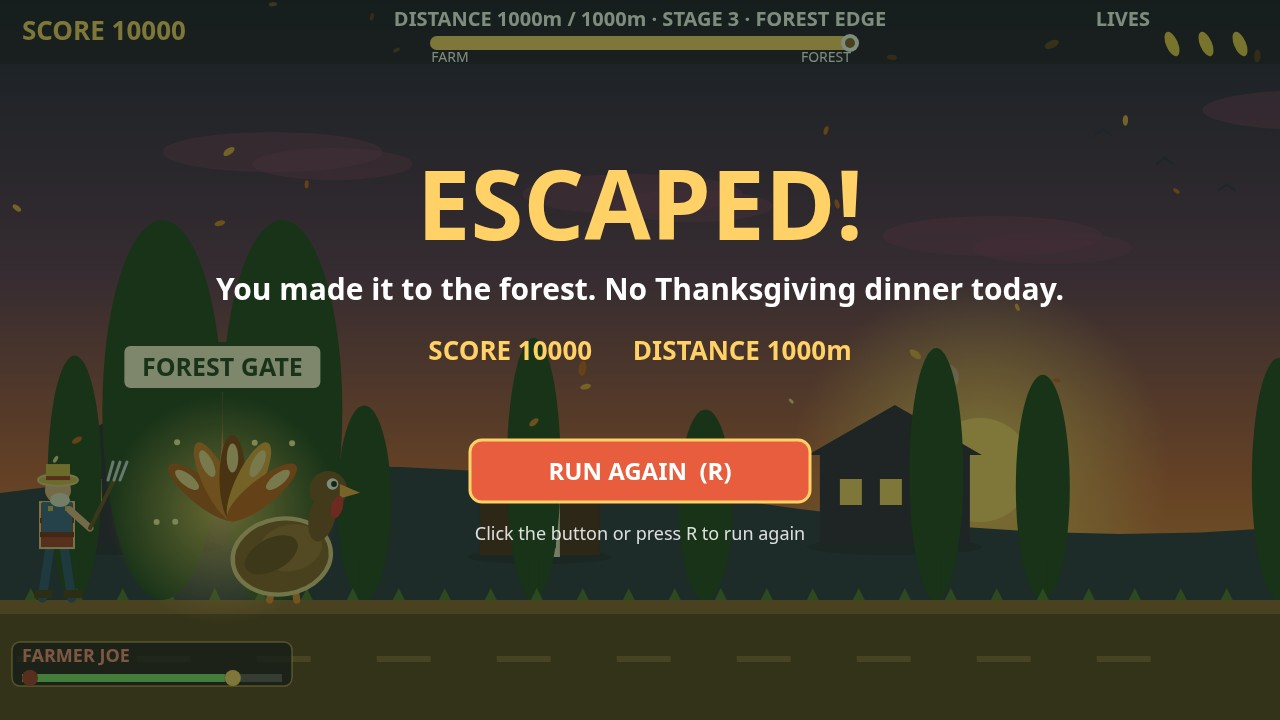
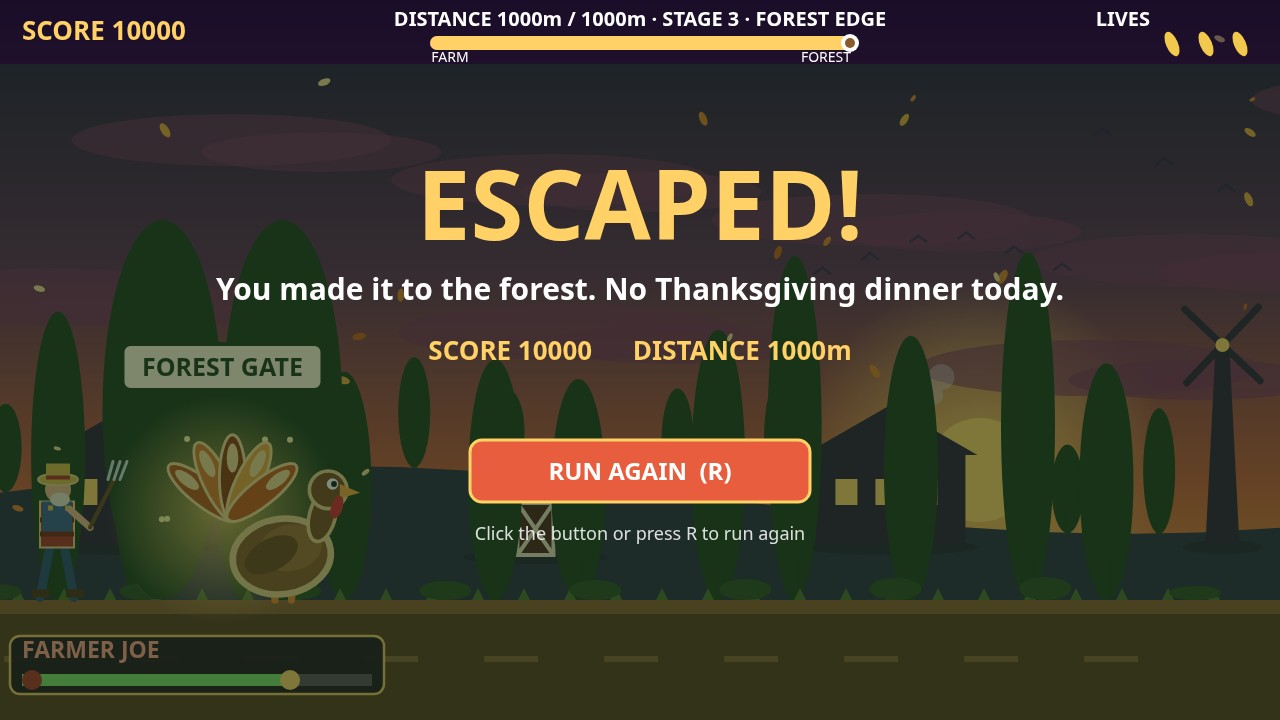
v20: fix all remaining audit issues in one version
Audit round 2 + duel v19 (19/20, 7/8 = v18): mock judge kept
penalising (1) empty sky, (2) small hero, (3) title, (4) HUD.
This version attacks them directly — code changes, not retakes:

- B2 empty sky: denser mid-ground — 14 taller trees (110-190px),
  far treeline on the hill crest, farm windmill (tower + slow blades),
  5+3 bigger lower clouds, lower bird flock, ground bushes.
  Sky-only y64-400 measured: shot 1 78.0% -> 53.0%, shot 3
  77.9% -> 59.4%. Ground line + gameplay geometry UNCHANGED.
- K1 Farmer Joe meter: box 260 -> 350px, label 18 -> 23px,
  brighter gold border, thicker track/dots — reads at 320px.
- K2 end-screen HUD: overlay dim now starts below the 64px top bar,
  so DISTANCE 1000m / STAGE 3 · FOREST EDGE stays readable; gold
  SCORE/DISTANCE line still dominates.
- K3 title footer: 16 -> bold 20px, taller pill + gold rim.
- Hero (scale stays 1.45x per Ban): body rim 3 -> 4.5, light rims
  on tail feathers + head/neck, duck rim 3 -> 4.
- Title untouched (110px, v16). Shot 3 forest+oven+feathers kept
  as the moment; all 4 shots re-shot with the new code.
- Duck: NOT staged — v17 proved the duck pose illegible at
  thumbnail, and any duck moment would displace the kitchen-yard
  jump (cover) or the forest jump (stage-3 proof); duck stays
  documented in HOW TO PLAY text + source outline.

Verified: perfect run 3/3 ESCAPED 0 hits lives 3/3 (seeds 99/7/42);
preview-gate full + 320px + 2x2 judge sheet; determinism two
[…]

diff --git a/game/src/world.js b/game/src/world.js
@@ -51,11 +51,18 @@ function createWorld(rng) {
       color: rng.pick(['#e8a33d', '#d97b29', '#c65a1a', '#f2d492']),
     });
   }
+  // v20: taller, denser near trees (tops reach y ~410 instead of ~460)
+  // plus a far treeline rooted on the far-hill crest — both fill bands
+  // that used to read as empty sky. Purely visual: no gameplay geometry.
   const trees = [];
-  for (let i = 0; i < 9; i++) {
-    trees.push({ x: i * 170 + rng.range(-40, 40), h: rng.range(80, 140) });
+  for (let i = 0; i < 14; i++) {
+    trees.push({ x: i * 110 + rng.range(-30, 30), h: rng.range(110, 190) });
   }
-  return { leaves, trees, scroll: 0 };
+  const farTrees = [];
+  for (let i = 0; i < 12; i++) {
+    farTrees.push({ x: i * 130 + rng.range(-30, 30), h: rng.range(38, 66) });
+  }
+  return { leaves, trees, farTrees, scroll: 0 };
 }
 
 function worldUpdate(world, dt, speed) {
@@ -113,15 +120,29 @@ function worldDraw(ctx, world, distance, time) {
   ctx.arc(sunX, sunY, 52, 0, Math.PI * 2);
   ctx.fill();
 
-  // Clouds.
+  // Clouds (v20: 5 instead of 4, sitting lower, plus a second band of
+  // bigger, lower clouds at y ~300-370 — the y 180-350 band was ~89%
+  // empty sky in every gameplay shot. v20b: main clouds bigger still
+  // (rx 160/120) after measuring y180-300 still ~80% empty.
   ctx.fillStyle = 'rgba(122, 45, 94, 0.55)';
-  for (let i = 0; i < 4; i++) {
-    const cx = ((i * 360 - world.scroll * 0.08) % 1400 + 1400) % 1400 - 60;
+  for (let i = 0; i < 5; i++) {
+    const cx = ((i * 320 - world.scroll * 0.08) % 1500 + 1500) % 1500 - 60;
     ctx.beginPath();
-    ctx.ellipse(cx, 110 + i * 42, 110, 20, 0, 0, Math.PI * 2);
+    ctx.ellipse(cx, 100 + i * 40, 160, 26, 0, 0, Math.PI * 2);
     ctx.fill();
     ctx.beginPath();
-    ctx.ellipse(cx + 60, 122 + i * 42, 80, 16, 0, 0, Math.PI * 2);
+    ctx.ellipse(cx + 90, 112 + i * 40, 120, 20, 0, 0, Math.PI * 2);
+    ctx.fill();
+  }
+  ctx.fillStyle = 'rgba(122, 45, 94, 0.6)';
+  for (let i = 0; i < 3; i++) {
+    const cx = ((i * 520 + 180 - world.scroll * 0.06) % 1500 + 1500) % 1500 - 110;
+    const cy = 296 + i * 36;
+    ctx.beginPath();
+    ctx.ellipse(cx, cy, 170, 28, 0, 0, Math.PI * 2);
+    ctx.fill();
+    ctx.beginPath();
+    ctx.ellipse(cx + 110, cy + 12, 130, 20, 0, 0, Math.PI * 2);
     ctx.fill();
   }
 
@@ -141,6 +162,20 @@ function worldDraw(ctx, world, distance, time) {
     ctx.stroke();
   }
 
+  // Lower bird flock (v20): a loose V crossing the mid-sky at y ~230-290.
+  ctx.strokeStyle = 'rgba(43, 27, 74, 0.7)';
+  ctx.lineWidth = 2.5;
+  ctx.lineCap = 'round';
+  for (let i = 0; i < 6; i++) {
+    const bx = (((900 + i * 48 - world.scroll * 0.05) % 1400) + 1400) % 1400 - 60;
+    const by = 232 + Math.abs(i - 2.5) * 14 + Math.sin(time * 0.8 + i) * 4;
+    ctx.beginPath();
+    ctx.moveTo(bx - 8, by + 3);
+    ctx.lineTo(bx, by - 3);
+    ctx.lineTo(bx + 8, by + 3);
+    ctx.stroke();
+  }
+
   // Far hills.
   ctx.fillStyle = pal.hillFar;
   ctx.beginPath();
@@ -152,6 +187,19 @@ function worldDraw(ctx, world, distance, time) {
   ctx.lineTo(0, CFG.groundY);
   ctx.closePath();
   ctx.fill();
+
+  // Far treeline (v20): small dark trees rooted on the far-hill crest
+  // fill the y ~400-500 band behind the houses. Same crest function as
+  // the far hills, so every tree sits on the hillside, never floating.
+  ctx.fillStyle = pal.hillNear;
+  for (const tree of world.farTrees) {
+    const tx = ((tree.x - world.scroll * 0.2) % 1560 + 1560) % 1560 - 60;
+    const crestY = 500 - Math.sin((tx + world.scroll * 0.15) * 0.004) * 34;
+    ctx.beginPath();
+    ctx.ellipse(tx, crestY - tree.h, 16, tree.h, 0, 0, Math.PI * 2);
+    ctx.fill();
+    ctx.fillRect(tx - 3, crestY - 22, 6, 22);
+  }
 
   // Farmhouse and barn silhouettes (parallax 0.35). Bases sit below the
   // deepest hill crest (534) so they are always sunk into the hillside.
@@ -165,6 +213,7 @@ function worldDraw(ctx, world, distance, time) {
     drawFarmhouse(ctx, fx, 545);
     drawFarmhouse(ctx, fx + 760, 545);
     drawBarn(ctx, fx + 420, 555);
+    drawWindmill(ctx, fx + 1150, 545, time);
   }
 
   // Kitchen-yard smoke: in stage 2 the ovens are cooking, so the
@@ -231,6 +280,16 @@ function worldDraw(ctx, world, distance, time) {
     const dx = x - (world.scroll % 120);
     ctx.fillRect(dx, CFG.groundY + 56, 54, 6);
   }
+  // Bushes (v20): low dark shrubs along the path edge fill the strip
+  // just above the ground line. Background only, drawn under obstacles.
+  ctx.fillStyle = '#2e4a22';
+  for (let i = 0; i < 10; i++) {
+    const bx = ((i * 150 + 40 - world.scroll * 0.8) % 1500 + 1500) % 1500 - 60;
+    const bh = 14 + ((i * 37) % 12);
+    ctx.beginPath();
+    ctx.ellipse(bx, CFG.groundY - bh / 2, 26, bh / 2, 0, 0, Math.PI * 2);
+    ctx.fill();
+  }
 
   // Drifting leaves.
   for (const leaf of world.leaves) {
@@ -279,6 +338,42 @@ function drawFarmhouse(ctx, x, baseY) {
   ctx.beginPath();
   ctx.arc(x + 118, baseY - 150, 10, 0, Math.PI * 2);
   ctx.arc(x + 126, baseY - 168, 13, 0, Math.PI * 2);
+  ctx.fill();
+}
+
+// A farm windmill silhouette (v20): tower + slow blades fill the
+// vertical slice y ~300-545 between the houses that was empty sky.
+// Base sunk into the hillside like the farmhouse (baseY 545 > deepest
+// crest 534). Blades turn on game time only (deterministic).
+function drawWindmill(ctx, x, baseY, time) {
+  ctx.fillStyle = 'rgba(20, 8, 20, 0.3)';
+  ctx.beginPath();
+  ctx.ellipse(x + 17, baseY + 2, 40, 7, 0, 0, Math.PI * 2);
+  ctx.fill();
+  ctx.fillStyle = '#2e1a3a';
+  ctx.beginPath();
+  ctx.moveTo(x, baseY);
+  ctx.lineTo(x + 10, baseY - 195);
+  ctx.lineTo(x + 24, baseY - 195);
+  ctx.lineTo(x + 34, baseY);
+  ctx.closePath();
+  ctx.fill();
+  const hubX = x + 17;
+  const hubY = baseY - 200;
+  const ang = time * 0.5;
+  ctx.strokeStyle = '#2e1a3a';
+  ctx.lineWidth = 7;
+  ctx.lineCap = 'round';
+  for (let i = 0; i < 4; i++) {
+    const a = ang + (i * Math.PI) / 2;
+    ctx.beginPath();
+    ctx.moveTo(hubX, hubY);
+    ctx.lineTo(hubX + Math.cos(a) * 52, hubY + Math.sin(a) * 52);
+    ctx.stroke();
+  }
+  ctx.fillStyle = '#ffd166';
+  ctx.beginPath();
+  ctx.arc(hubX, hubY, 7, 0, Math.PI * 2);
   ctx.fill();
 }
 

diff --git a/game/src/hud.js b/game/src/hud.js
@@ -75,34 +75,37 @@ function hudDraw(ctx, game) {
   }
 
   // Farmer gap meter, bottom left: the farmer icon closes on the turkey.
+  // v20: the meter was unreadable at thumbnail size (260px box, 18px
+  // label, dark-on-dark). Bigger box, brighter gold border, 23px label,
+  // thicker track and dots — it must read as a labelled meter at 320px.
   const meterX = 22;
   const meterY = CFG.canvasHeight - 52;
-  const meterW = 260;
-  ctx.fillStyle = 'rgba(26, 12, 32, 0.78)';
+  const meterW = 350;
+  ctx.fillStyle = 'rgba(26, 12, 32, 0.88)';
   ctx.beginPath();
-  ctx.roundRect(meterX - 10, meterY - 26, meterW + 20, 44, 8);
+  ctx.roundRect(meterX - 12, meterY - 32, meterW + 24, 58, 10);
   ctx.fill();
-  ctx.strokeStyle = 'rgba(255, 209, 102, 0.55)';
-  ctx.lineWidth = 1.5;
+  ctx.strokeStyle = 'rgba(255, 209, 102, 0.9)';
+  ctx.lineWidth = 2.5;
   ctx.stroke();
-  ctx.fillStyle = '#ff8a7a';
-  ctx.font = 'bold 18px system-ui, sans-serif';
+  ctx.fillStyle = '#ff9d8a';
+  ctx.font = 'bold 23px system-ui, sans-serif';
   ctx.textAlign = 'left';
-  ctx.fillText('FARMER JOE', meterX, meterY - 6);
+  ctx.fillText('FARMER JOE', meterX, meterY - 10);
   const gapFrac = Math.max(0, Math.min(1, game.gap / CFG.gapMax));
   const trackY = meterY + 6;
   ctx.fillStyle = 'rgba(255, 255, 255, 0.25)';
-  ctx.fillRect(meterX, trackY, meterW, 8);
+  ctx.fillRect(meterX, trackY, meterW, 12);
   ctx.fillStyle = gapFrac > 0.28 ? '#7ddb6a' : '#ff6b5e';
-  ctx.fillRect(meterX, trackY, meterW * gapFrac, 8);
-  // Farmer dot and turkey dot.
+  ctx.fillRect(meterX, trackY, meterW * gapFrac, 12);
+  // Farmer dot and turkey dot (dots travel inside the box: inset 20px).
   ctx.fillStyle = '#a83226';
   ctx.beginPath();
-  ctx.arc(meterX + 8, trackY + 4, 8, 0, Math.PI * 2);
+  ctx.arc(meterX + 10, trackY + 6, 10, 0, Math.PI * 2);
   ctx.fill();
   ctx.fillStyle = '#ffd166';
   ctx.beginPath();
-  ctx.arc(meterX + 8 + meterW * gapFrac, trackY + 4, 8, 0, Math.PI * 2);
+  ctx.arc(meterX + 10 + (meterW - 20) * gapFrac, trackY + 6, 10, 0, Math.PI * 2);
   ctx.fill();
 
   // Danger vignette when the farmer is close.
@@ -212,13 +215,18 @@ function hudDrawTitle(ctx, game) {
   drawButton(ctx, w / 2 - 190, 520, 380, 62, 'CLICK OR PRESS SPACE TO RUN');
   // Footer on its own dark pill (like the mute note), so it reads on the
   // brown ground instead of dissolving into it.
+  // v20: the footer pill was invisible at thumbnail size (16px text on a
+  // 28px pill). Bigger text, taller pill, gold rim — it must read at 320px.
   const footerLabel = 'P — pause      M — sound      R — restart';
-  ctx.font = '16px system-ui, sans-serif';
+  ctx.font = 'bold 20px system-ui, sans-serif';
   const footerW = ctx.measureText(footerLabel).width;
-  ctx.fillStyle = 'rgba(26, 12, 32, 0.78)';
+  ctx.fillStyle = 'rgba(26, 12, 32, 0.88)';
   ctx.beginPath();
-  ctx.roundRect(w / 2 - footerW / 2 - 14, 602, footerW + 28, 28, 12);
+  ctx.roundRect(w / 2 - footerW / 2 - 16, 598, footerW + 32, 36, 14);
   ctx.fill();
+  ctx.strokeStyle = 'rgba(255, 209, 102, 0.65)';
+  ctx.lineWidth = 2;
+  ctx.stroke();
   ctx.fillStyle = '#ffe9b8';
   ctx.fillText(footerLabel, w / 2, 622);
   if (game.best > 0) {
@@ -232,8 +240,12 @@ function hudDrawEnd(ctx, game) {
   const w = CFG.canvasWidth;
   const h = CFG.canvasHeight;
   const escaped = game.state === 'escaped';
+  // v20: the overlay used to dim the top HUD too, so "DISTANCE 1000m /
+  // 1000m · STAGE 3 · FOREST EDGE" was unreadable in shot 4. The dim now
+  // starts below the 64px top bar, so the HUD stays exactly as readable
+  // as in gameplay; the gold SCORE/DISTANCE line still dominates.
   ctx.fillStyle = escaped ? 'rgba(20, 46, 20, 0.55)' : 'rgba(46, 10, 10, 0.6)';
-  ctx.fillRect(0, 0, w, h);
+  ctx.fillRect(0, 64, w, h - 64);
 
   ctx.textAlign = 'center';
   ctx.fillStyle = escaped ? '#ffd166' : '#ff6b5e';

diff --git a/game/src/turkey.js b/game/src/turkey.js
@@ -109,6 +109,11 @@ function turkeyDraw(ctx, t, time) {
     ctx.beginPath();
     ctx.ellipse(0, -26, 9, 30, 0, 0, Math.PI * 2);
     ctx.fill();
+    // v20: light rim on each tail feather so the fan keeps its edge
+    // against dark trees behind the bird.
+    ctx.strokeStyle = '#f2d492';
+    ctx.lineWidth = 2;
+    ctx.stroke();
     ctx.fillStyle = '#f2d492';
     ctx.beginPath();
     ctx.ellipse(0, -40, 4, 10, 0, 0, Math.PI * 2);
@@ -128,13 +133,14 @@ function turkeyDraw(ctx, t, time) {
   ctx.stroke();
 
   // Body, with a warm rim so it stays readable against the dark purple
-  // hills and trees behind it, even at thumbnail size.
+  // hills and trees behind it, even at thumbnail size. v20: rim 3 -> 4.5
+  // (scale stays 1.45x — Ban's call, not a bug) for more separation.
   ctx.fillStyle = '#8a5a2b';
   ctx.beginPath();
   ctx.ellipse(50, h - 30, 34, 26, -0.15, 0, Math.PI * 2);
   ctx.fill();
   ctx.strokeStyle = '#e8c98a';
-  ctx.lineWidth = 3;
+  ctx.lineWidth = 4.5;
   ctx.stroke();
   ctx.fillStyle = '#a06a35';
   ctx.beginPath();
@@ -151,14 +157,18 @@ function turkeyDraw(ctx, t, time) {
   ctx.fill();
   ctx.restore();
 
-  // Neck and head.
+  // Neck and head (v20: light rims, same reason as the body).
   ctx.fillStyle = '#7a4a22';
   ctx.beginPath();
   ctx.ellipse(78, h - 58, 9, 18, 0.25, 0, Math.PI * 2);
   ctx.fill();
+  ctx.strokeStyle = '#e8c98a';
+  ctx.lineWidth = 2.5;
+  ctx.stroke();
   ctx.beginPath();
   ctx.arc(82, h - 76, 13, 0, Math.PI * 2);
   ctx.fill();
+  ctx.stroke();
   // Beak.
   ctx.fillStyle = '#f2a541';
   ctx.beginPath();
@@ -229,7 +239,7 @@ function turkeyDrawDuck(ctx, h) {
   ctx.ellipse(54, h - 16, 50, 15, -0.05, 0, Math.PI * 2);
   ctx.fill();
   ctx.strokeStyle = '#e8c98a';
-  ctx.lineWidth = 3;
+  ctx.lineWidth = 4;
   ctx.stroke();
   ctx.fillStyle = '#a06a35';
   ctx.beginPath();
